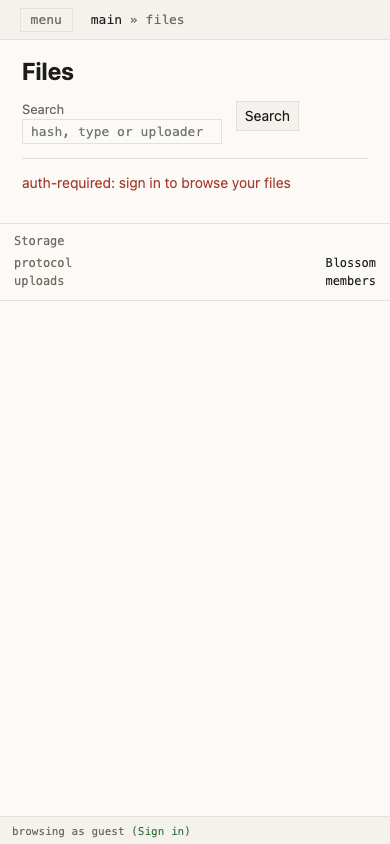
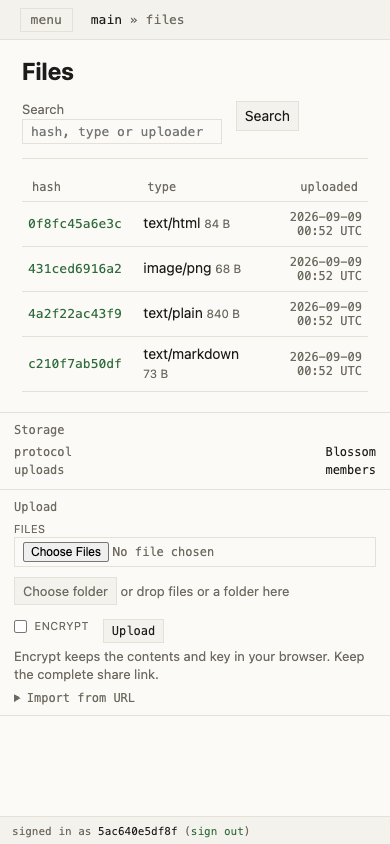
show install previews in the manifest

diff --git a/internal/webui/webui.go b/internal/webui/webui.go
@@ -220,7 +220,7 @@ func (a *App) ServeHTTP(writer http.ResponseWriter, request *http.Request) {
 		_, _ = writer.Write(serviceWorkerJS)
 		return
 	}
-	if png, ok := map[string][]byte{"/icon-192.png": icon192PNG, "/icon-512.png": icon512PNG, "/icon-maskable-512.png": iconMaskablePNG, "/apple-touch-icon.png": appleTouchIconPNG, "/badge-96.png": badgePNG}[request.URL.Path]; ok {
+	if png, ok := map[string][]byte{"/icon-192.png": icon192PNG, "/icon-512.png": icon512PNG, "/icon-maskable-512.png": iconMaskablePNG, "/apple-touch-icon.png": appleTouchIconPNG, "/badge-96.png": badgePNG, "/screenshot-narrow.png": screenshotNarrowPNG, "/screenshot-wide.png": screenshotWidePNG}[request.URL.Path]; ok {
 		writer.Header().Set("content-type", "image/png")
 		writer.Header().Set("cache-control", "public, max-age=86400")
 		_, _ = writer.Write(png)

diff --git a/internal/webui/templates.go b/internal/webui/templates.go
@@ -77,6 +77,12 @@ var appleTouchIconPNG []byte
 //go:embed badge-96.png
 var badgePNG []byte
 
+//go:embed screenshot-narrow.png
+var screenshotNarrowPNG []byte
+
+//go:embed screenshot-wide.png
+var screenshotWidePNG []byte
+
 //go:embed sw.js
 var serviceWorkerJS []byte
 
